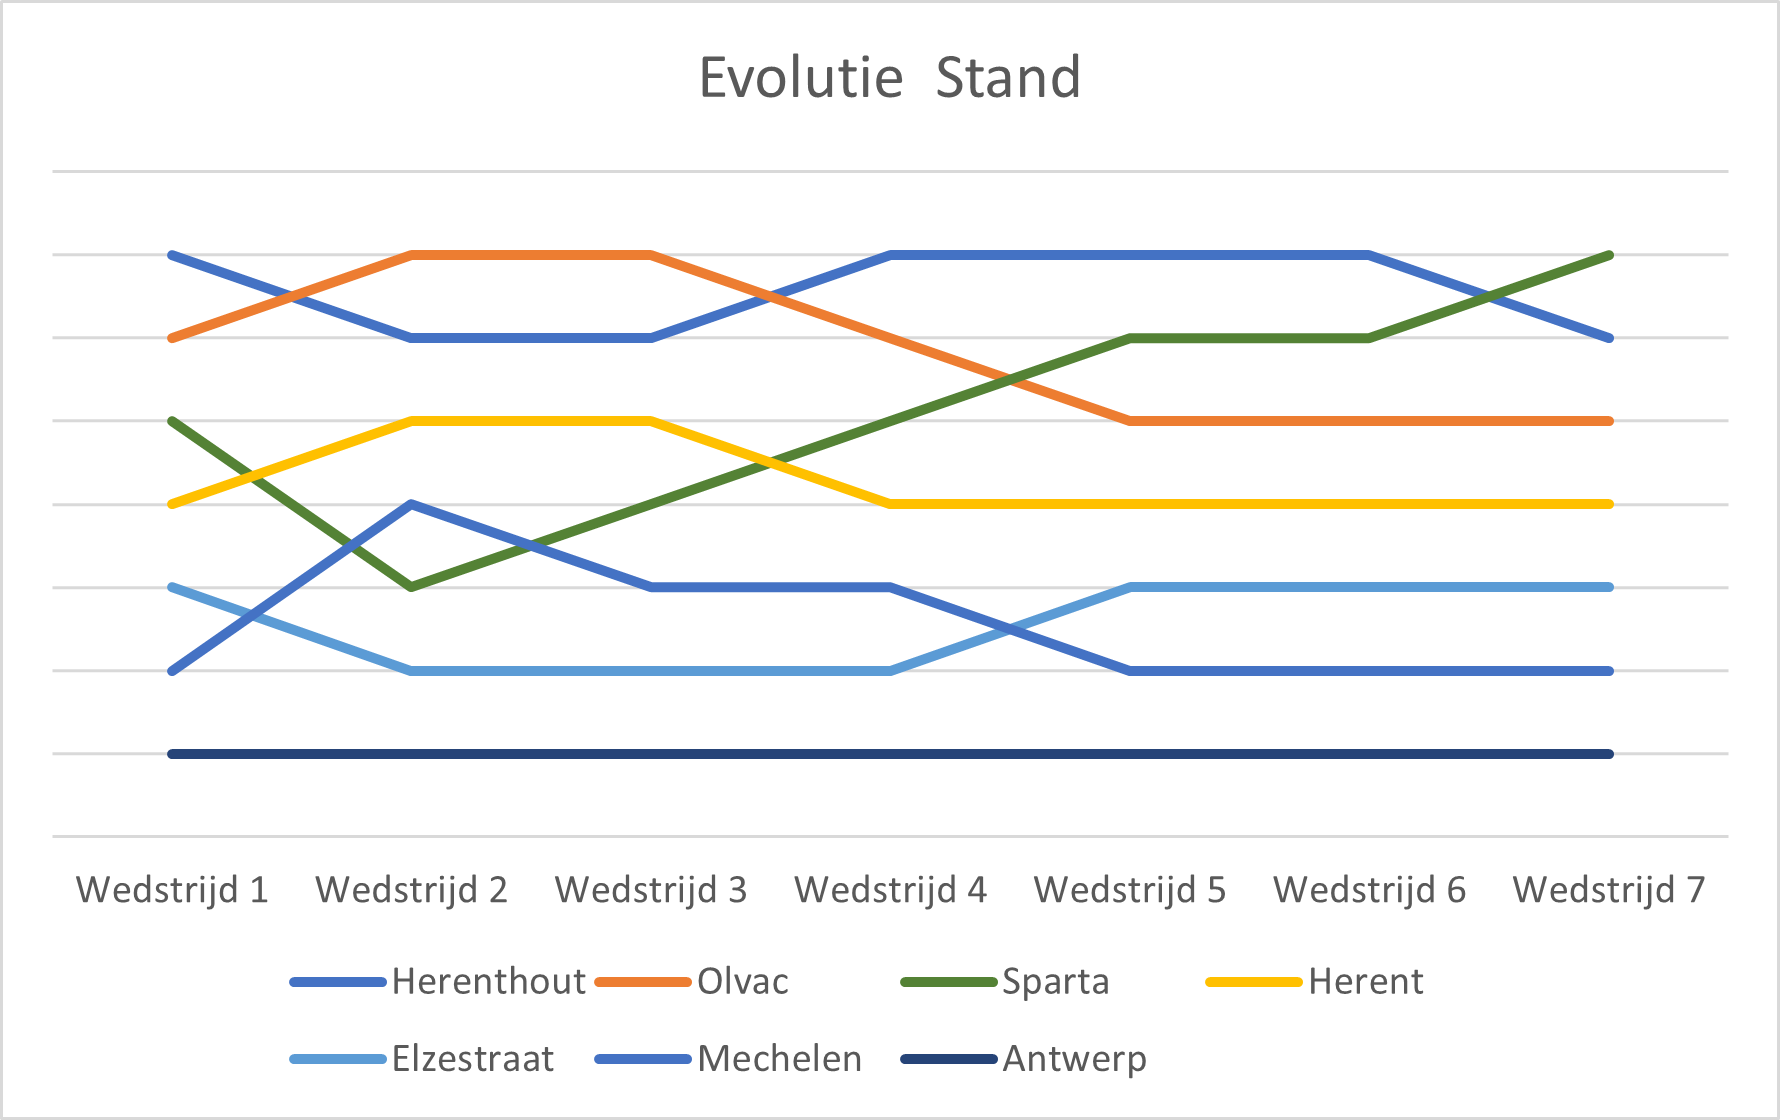
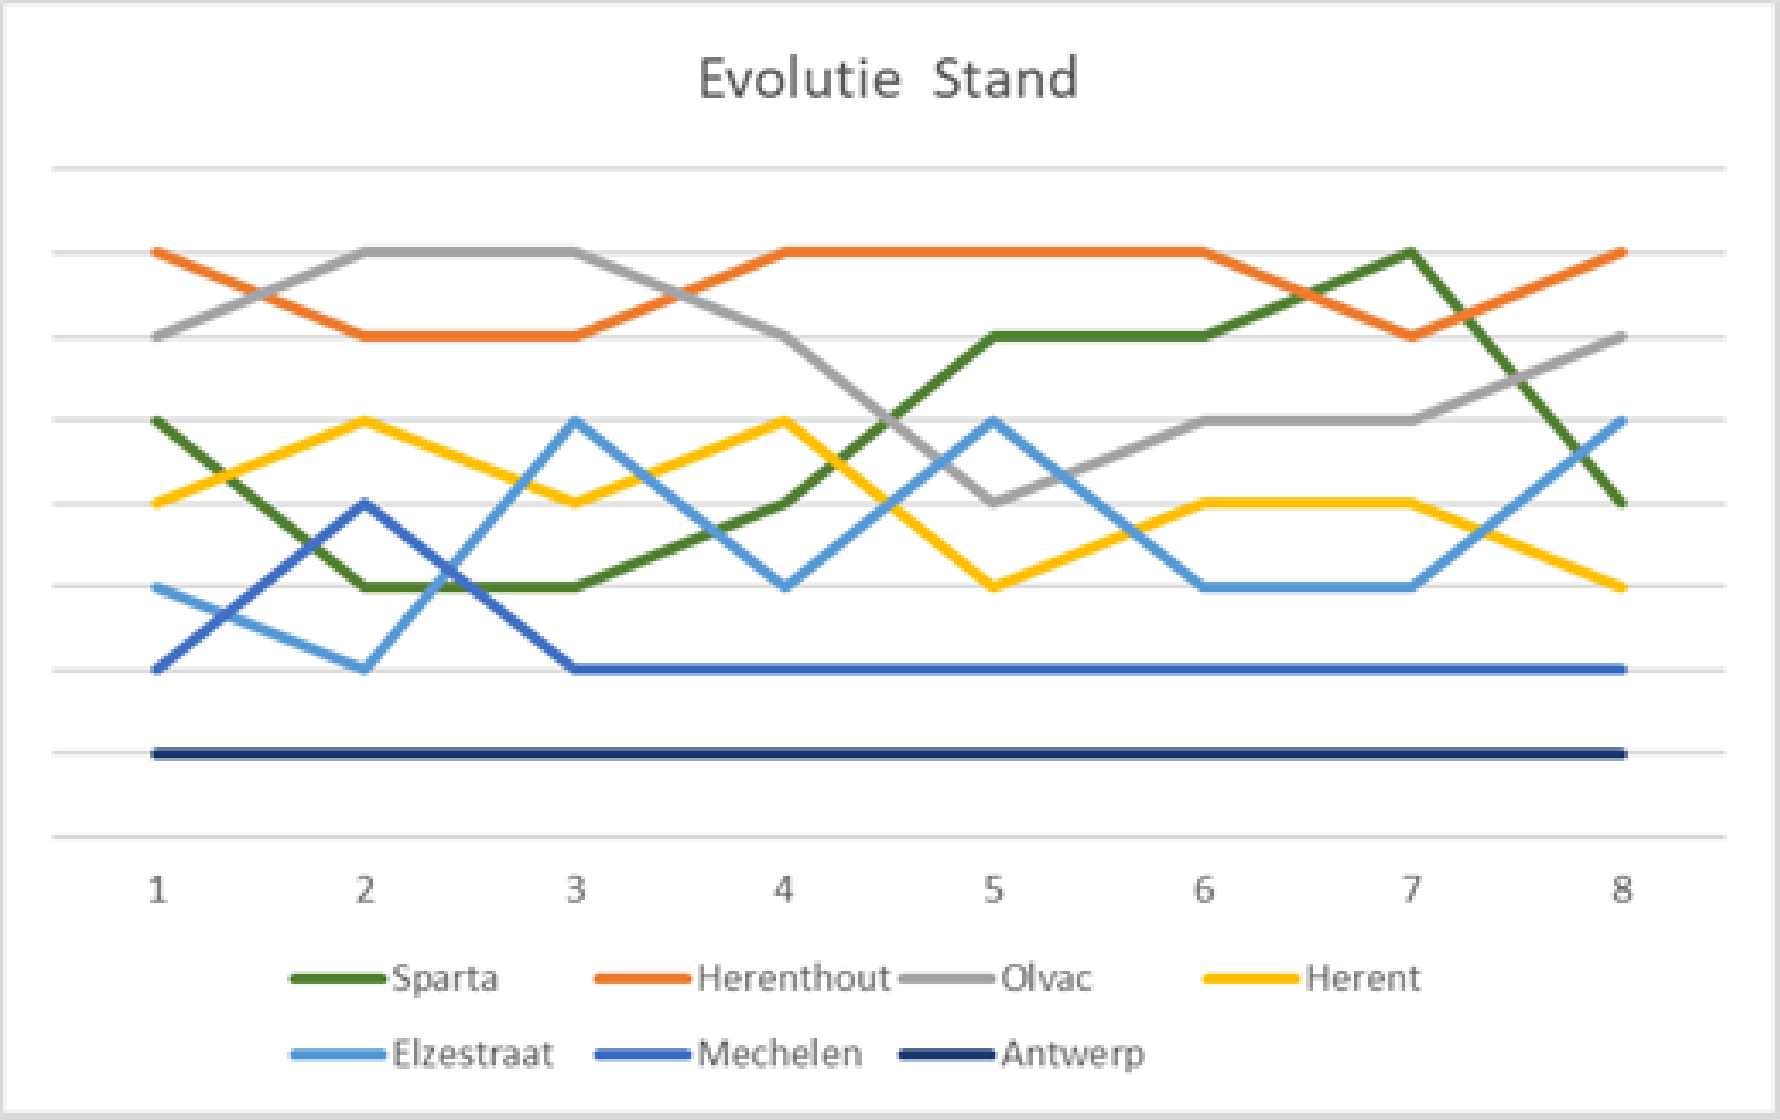
Update

diff --git a/README.md b/README.md
@@ -6,16 +6,16 @@ Op deze pagina vind je allerlei nuttige informatie & afspraken voor de MU 16 sei
 
 ## Volgende wedstrijd
 
-<!-- > Volgende **thuis** wedstrijd is op zaterdag **28 oktober** tegen **Herent** om **12.45** (11.45 ter plaatse)
+> volgende **thuis** wedstrijd is op zaterdag **28 oktober** tegen **herent** om **12.45** (11.45 ter plaatse)
 
-> Kleedkamer: **Tille & Lize**
+> kleedkamer: **tille & lize**
 
-> Fruit: **Lize**
+> fruit: **lize**
 
-> Was meenemen: **Lize** -->
+> was meenemen: **lize**
 
 
-> Volgende **uit** wedstrijd is op zondag **21 oktober** tegen **Red Boys Elzestraat** om **15.00** (14.00 ter plaatse of 13.15 vertrekken op Sparta) 
+<!-- > Volgende **uit** wedstrijd is op zondag **21 oktober** tegen **Red Boys Elzestraat** om **15.00** (14.00 ter plaatse of 13.15 vertrekken op Sparta) 
 
 > Fruit: Tille
 
@@ -25,13 +25,12 @@ Op deze pagina vind je allerlei nuttige informatie & afspraken voor de MU 16 sei
 Red Boys Elzestraat - Terr 2<br>
 Hogevelden 70,  <br>
 2860 Sint-Katelijne-Waver <br>
-[map](https://www.google.com/maps/place/Rb+Elzestraat/@51.0611563,4.4698781,17z/data=!3m1!4b1!4m6!3m5!1s0x47c3e50dda940ce1:0x722e310d14afda83!8m2!3d51.0611563!4d4.472453!16s%2Fg%2F11bzx124by?entry=ttu)
+[map](https://www.google.com/maps/place/Rb+Elzestraat/@51.0611563,4.4698781,17z/data=!3m1!4b1!4m6!3m5!1s0x47c3e50dda940ce1:0x722e310d14afda83!8m2!3d51.0611563!4d4.472453!16s%2Fg%2F11bzx124by?entry=ttu) -->
 
 
 
 Datum   | Thuis | Uit   | Tegenstander          | Uur
 ---     |:---:  |:---:  |---                    | ---
-za 21-Okt  |       |☑     |Red Boys Elzestraat    | 15.00
 za 28-Okt  |☑     |       |K.F.C Herent           | 12.45
 vr 10-Nov  |       |☑     |Kon. Olvac             | 20.00
 za 18-Nov  |☑     |       |Antwerp Diamonds Fc    | 16.45
@@ -49,6 +48,7 @@ Symbool   | Status
 
 Datum   | Thuis | Uit    | Tegenstander        | Uitslag
 ---     |:---:  |:---:   |---                  |---
+21-Okt  |       |✅     |Red Boys Elzestraat    | 0-6
 14-Okt  |       |✅     |S.C. Mechelen          | **0-8**
 07-Okt  |✅     |       |K.F.C Herenthout       | 3-3
 01-Okt  |       |✅     |Antwerp Diamonds Fc    | **0-17**
@@ -58,15 +58,16 @@ Datum   | Thuis | Uit    | Tegenstander        | Uitslag
 
 ## Rangschikking
 
-Ploegen	|	M	|	W	|	V	|	G	|	+	|	-	|	+/-	|	PTS
----	|	---:	|	---:	|	---:	|	---:	|	---:	|	---:	|	---:	|	---:
-**Sparta**	|	6	|	4	|	1	|	1	|	34	|	9	|	25	|	13
-Herenthout	|	6	|	4	|	1	|	1	|	31	|	9	|	22	|	13
-Olvac	|	6	|	4	|	1	|	1	|	22	|	16	|	6	|	13
+Team	|	M	|	W	|	V	|	G	|	+	|	-	|	+/-	|	PTS
+---	|	---	|	---	|	---	|	---	|	---	|	---	|	---	|	---
+Herenthout	|	7	|	5	|	1	|	1	|	35	|	11	|	24	|	16
+Olvac	|	7	|	5	|	1	|	1	|	29	|	16	|	13	|	16
+Elzestraat	|	7	|	4	|	2	|	2	|	38	|	13	|	25	|	13
+Sparta	|	7	|	4	|	2	|	2	|	34	|	15	|	19	|	13
 Herent	|	6	|	3	|	3	|	3	|	24	|	13	|	11	|	9
-Elzestraat	|	5	|	2	|	2	|	2	|	21	|	12	|	9	|	8
-Mechelen	|	6	|	1	|	5	|	5	|	11	|	42	|	-31	|	3
-Antwerp	|	5	|	0	|	5	|	5	|	7	|	49	|	-42	|	1
+Mechelen	|	7	|	1	|	6	|	6	|	11	|	49	|	-38	|	3
+Antwerp	|	7	|	0	|	7	|	7	|	10	|	64	|	-54	|	0
+
 
 ### Evolutie
 
@@ -127,7 +128,7 @@ Gitte	    |           |           |✅         |           |           |        
 Dee Dee	    |           |           |           |✅         |           |           |           |           |           |           |           |
 Margue	    |           |           |           |           |✅           |         |           |           |           |           |           |
 Imke	    |           |           |           |           |           |✅           |         |           |           |           |           |
-Tille	    |           |           |           |           |           |           |☑           |         |           |           |           |
+Tille	    |           |           |           |           |           |           |✅           |         |           |           |           |
 Lize        |           |           |           |           |           |           |           |☑           |         |           |           |
 Auke        |           |           |           |           |           |           |           |           |☑           |         |           |
 Morane		|           |           |           |           |           |           |           |           |           |☑           |         |
@@ -192,7 +193,7 @@ Gitte	    |           |✅         |           |           |           |        
 Dee Dee	    |           |           |✅         |           |           |           |           |           |           |           |
 Margue	    |           |           |           |✅           |         |           |           |           |           |           |
 Imke	    |           |           |           |           |✅           |         |           |           |           |           |
-Tille	    |           |           |           |           |           |☑           |         |           |           |           |
+Tille	    |           |           |           |           |           |✅           |         |           |           |           |
 Lize        |           |           |           |           |           |           |☑           |         |           |           |
 Auke        |           |           |           |           |           |           |           |☑           |         |           |
 Morane		|           |           |           |           |           |           |           |           |☑           |         |
